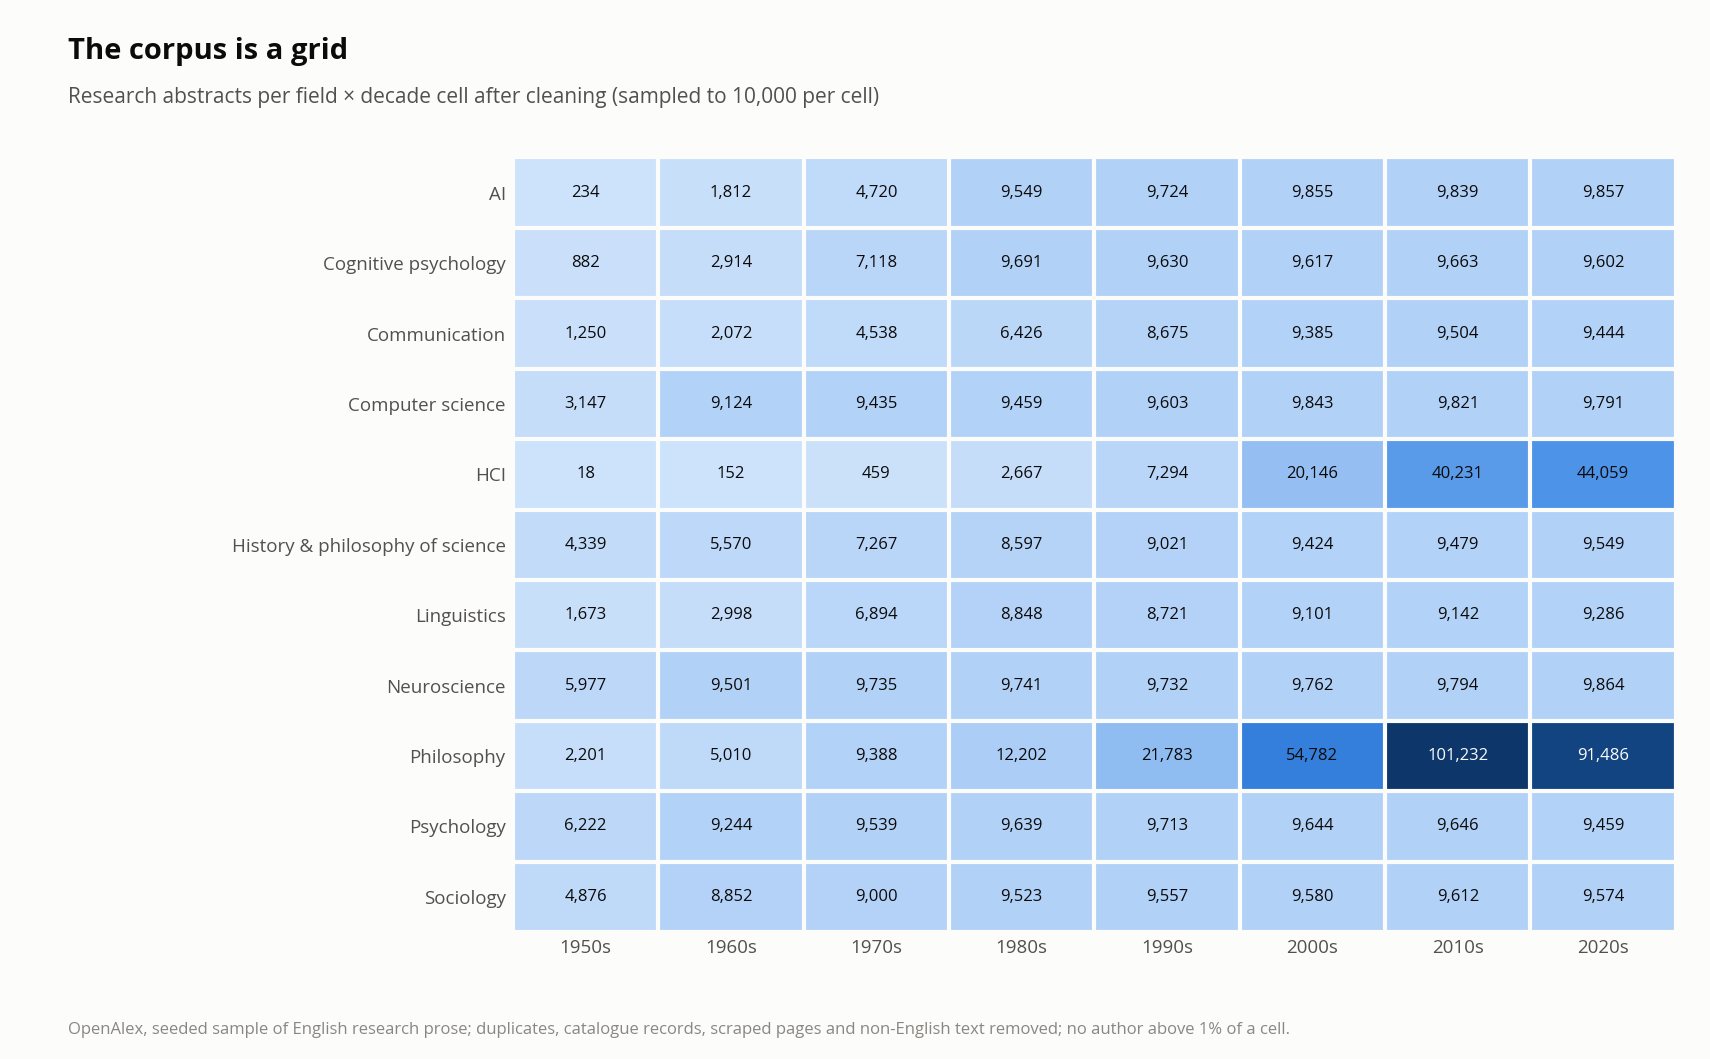
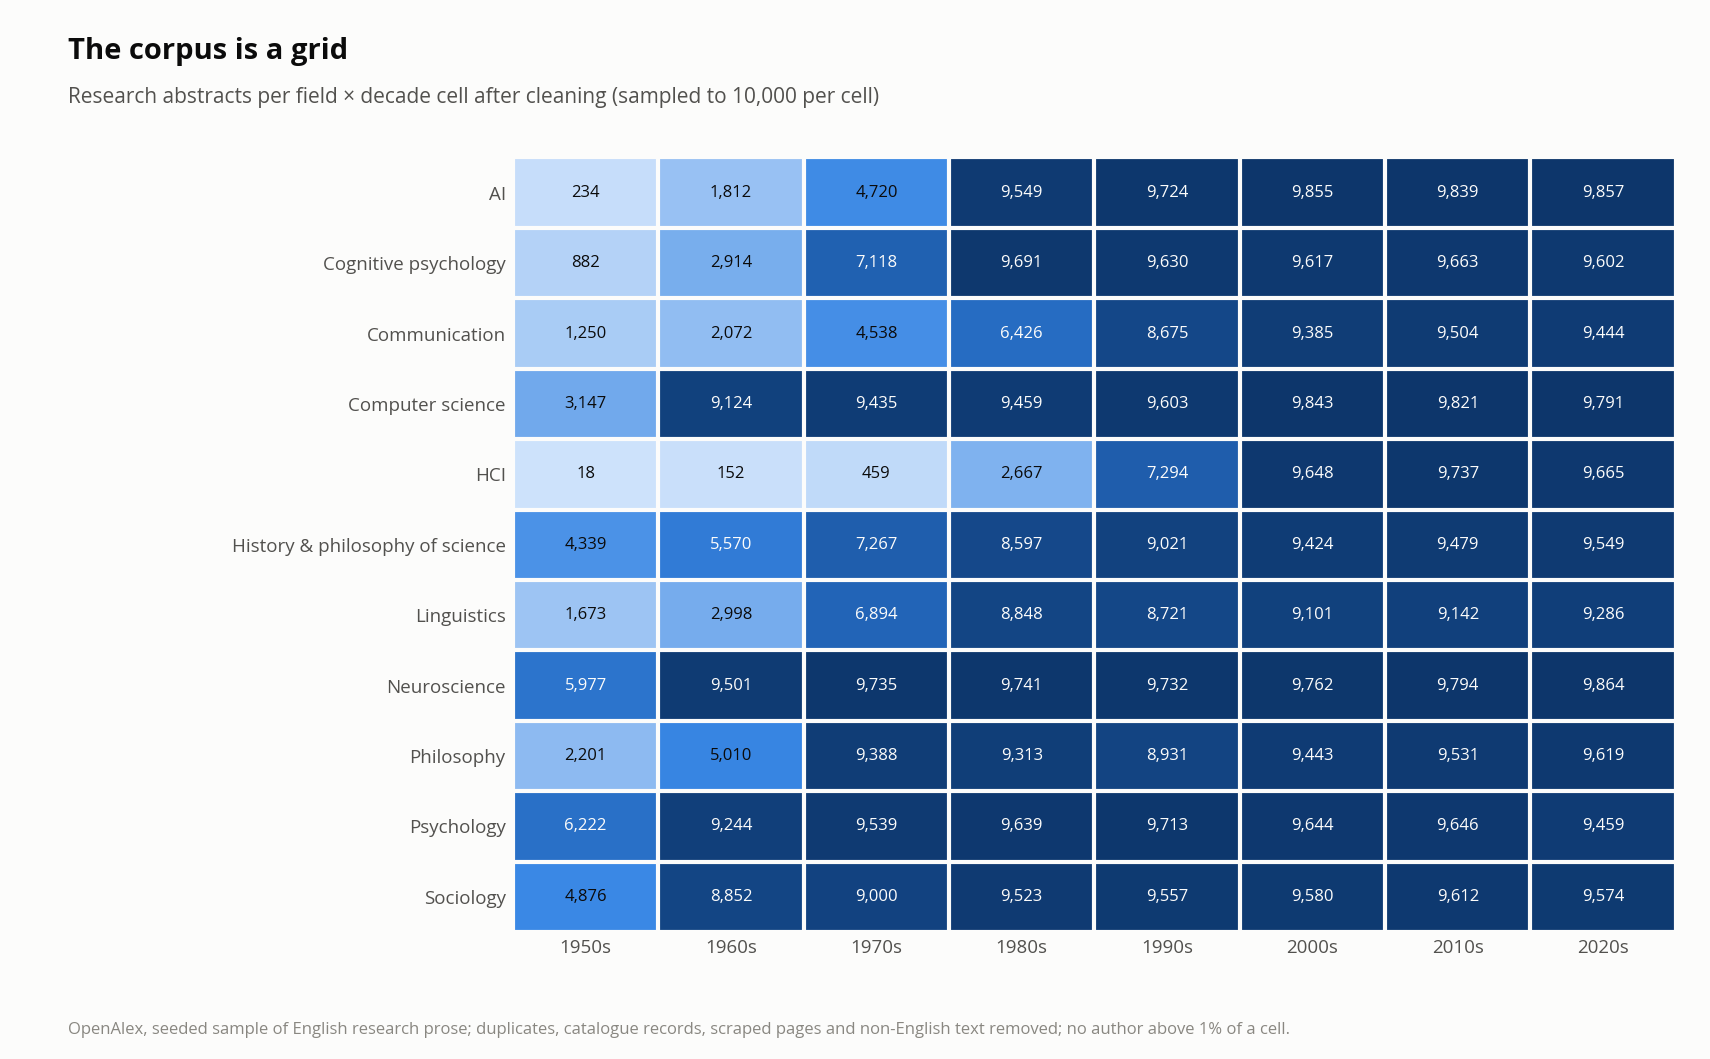
fix(audit): key cells by layer so full cells stop overwriting their samples
The audit named cells by file stem, so philosophy and HCI's full cells and
their main-grid samples shared a key: the web grid showed the full counts
(up to 192,933 in a 10,000-abstract cell), the README figure averaged the two,
and the home page claimed 1.3M abstracts instead of 677,000. Cells now carry
their layer, every lookup uses it, and per-decade totals leave the full cells
out because each contains its sample. Every cell's own counts are unchanged.

diff --git a/src/interpretant/corpus/audit.py b/src/interpretant/corpus/audit.py
@@ -1,8 +1,10 @@
 """Corpus audit: per-cell volume, target-word frequency and books-manifest risks.
 
-A cell is one ``(source, decade)`` processed text file. Drift between two decades is
-reliable only when a word occurs often enough in both: a vector trained on a handful of
-occurrences stays close to its initialisation, and its nearest neighbours are noise.
+A cell is one ``(layer, source, decade)`` processed text file: the same field and decade can
+exist in two layers (a main-grid sample and its full cell), so the layer is part of the key.
+Drift between two decades is reliable only when a word occurs often enough in both: a vector
+trained on a handful of occurrences stays close to its initialisation, and its nearest
+neighbours are noise.
 """
 
 from __future__ import annotations
@@ -15,6 +17,7 @@ from pathlib import Path
 
 from interpretant.corpus.books import BooksSource
 
+FULL_LAYER = "openalex_full"
 _CELL_FILENAME = re.compile(r"^(?P<source>[a-z0-9]+)_(?P<decade>\d{4})\.txt$")
 # "Zimmern translation", "English translation (Baskin, 1959)"; not "inscription, translation".
 _TRANSLATION_NOTE = re.compile(r"\w+ translation\b", re.IGNORECASE)
@@ -22,8 +25,9 @@ _TRANSLATION_NOTE = re.compile(r"\w+ translation\b", re.IGNORECASE)
 
 @dataclass
 class CellStats:
-    """Volume and target-word counts for one (source, decade) cell."""
+    """Volume and target-word counts for one (layer, source, decade) cell."""
 
+    layer: str
     source: str
     decade: int
     documents: int = 0
@@ -63,9 +67,9 @@ def load_target_words(path: Path) -> list[str]:
     return words
 
 
-def count_cell(path: Path, source: str, decade: int, targets: set[str]) -> CellStats:
+def count_cell(path: Path, layer: str, source: str, decade: int, targets: set[str]) -> CellStats:
     """Stream a processed text file (one document per line) and count its contents."""
-    stats = CellStats(source=source, decade=decade)
+    stats = CellStats(layer=layer, source=source, decade=decade)
     with path.open(encoding="utf-8", errors="replace") as handle:
         for line in handle:
             tokens = line.split()
@@ -78,13 +82,14 @@ def count_cell(path: Path, source: str, decade: int, targets: set[str]) -> CellS
 
 
 def scan_processed(processed_dir: Path, targets: set[str]) -> list[CellStats]:
-    """Count every ``<source>/texts/<source>_<decade>.txt`` file under ``processed_dir``."""
+    """Count every ``<layer>/texts/<source>_<decade>.txt`` file under ``processed_dir``."""
     cells: list[CellStats] = []
     for path in sorted(processed_dir.glob("*/texts/*.txt")):
         match = _CELL_FILENAME.match(path.name)
         if match is None:
             continue
-        cells.append(count_cell(path, match["source"], int(match["decade"]), targets))
+        layer = path.parent.parent.name
+        cells.append(count_cell(path, layer, match["source"], int(match["decade"]), targets))
     return cells
 
 
@@ -92,7 +97,9 @@ def merge_by_decade(cells: Iterable[CellStats]) -> dict[int, CellStats]:
     """Sum cells across sources, giving one merged cell per decade."""
     merged: dict[int, CellStats] = {}
     for cell in cells:
-        total = merged.setdefault(cell.decade, CellStats(source="merged", decade=cell.decade))
+        total = merged.setdefault(
+            cell.decade, CellStats(layer="merged", source="merged", decade=cell.decade)
+        )
         total.documents += cell.documents
         total.tokens += cell.tokens
         total.target_counts.update(cell.target_counts)
@@ -223,7 +230,8 @@ def audit_corpus(
 ) -> CorpusAudit:
     """Count every cell under ``processed_dir`` and check the books manifest."""
     cells = scan_processed(processed_dir, set(targets))
-    merged = merge_by_decade(cells)
+    # A full cell contains its main-grid sample, so counting both would count it twice.
+    merged = merge_by_decade(cell for cell in cells if cell.layer != FULL_LAYER)
     present, missing = books.validate()
     book_words = [
         (

diff --git a/tests/test_audit.py b/tests/test_audit.py
@@ -19,8 +19,10 @@ from interpretant.corpus.books import BooksSource
 TARGETS = {"network", "affordance"}
 
 
-def _write_cell(processed_dir: Path, source: str, decade: int, lines: list[str]) -> None:
-    texts_dir = processed_dir / source / "texts"
+def _write_cell(
+    processed_dir: Path, source: str, decade: int, lines: list[str], layer: str = ""
+) -> None:
+    texts_dir = processed_dir / (layer or source) / "texts"
     texts_dir.mkdir(parents=True, exist_ok=True)
     (texts_dir / f"{source}_{decade}.txt").write_text("\n".join(lines), encoding="utf-8")
 
@@ -37,7 +39,7 @@ def test_scan_processed_counts_documents_tokens_and_targets(tmp_path: Path) -> N
 
     [cell] = scan_processed(tmp_path, TARGETS)
 
-    assert (cell.source, cell.decade) == ("acl", 1990)
+    assert (cell.layer, cell.source, cell.decade) == ("acl", "acl", 1990)
     assert cell.documents == 2
     assert cell.tokens == 6
     assert cell.target_counts["network"] == 2
@@ -145,6 +147,7 @@ def test_audit_corpus_counts_cells_and_reports_json(tmp_path: Path) -> None:
     assert audit.merged[1990].target_counts["network"] == 2
     assert report["cells"] == [
         {
+            "layer": "hci",
             "source": "hci",
             "decade": 1990,
             "documents": 1,
@@ -152,6 +155,7 @@ def test_audit_corpus_counts_cells_and_reports_json(tmp_path: Path) -> None:
             "target_counts": {"network": 2},
         },
         {
+            "layer": "hci",
             "source": "hci",
             "decade": 2000,
             "documents": 1,
@@ -160,3 +164,16 @@ def test_audit_corpus_counts_cells_and_reports_json(tmp_path: Path) -> None:
         },
     ]
     assert report["missing_books"] == []
+
+
+def test_audit_keeps_a_sample_and_its_full_cell_apart_and_counts_the_decade_once(
+    tmp_path: Path,
+) -> None:
+    _write_cell(tmp_path, "hci", 2010, ["network"] * 2, layer="openalex")
+    _write_cell(tmp_path, "hci", 2010, ["network"] * 7, layer="openalex_full")
+
+    audit = audit_corpus(tmp_path, ["network"], BooksSource(tmp_path / "no_books"), 1)
+
+    documents = {(cell.layer, cell.source): cell.documents for cell in audit.cells}
+    assert documents == {("openalex", "hci"): 2, ("openalex_full", "hci"): 7}
+    assert audit.merged[2010].documents == 2

diff --git a/src/interpretant/__main__.py b/src/interpretant/__main__.py
@@ -598,20 +598,22 @@ def corpus_audit(
     audit = audit_corpus(
         processed_dir, load_target_words(words_file), BooksSource(books_dir), min_occurrences
     )
-    sources = sorted({cell.source for cell in audit.cells})
-    tokens_by_cell = {(cell.source, cell.decade): cell.tokens for cell in audit.cells}
+    columns = sorted({(cell.layer, cell.source) for cell in audit.cells})
+    tokens_by_cell = {(cell.layer, cell.source, cell.decade): cell.tokens for cell in audit.cells}
 
     volume_table = Table(title="Tokens per cell (millions)", show_lines=False)
     volume_table.add_column("Decade", style="cyan")
-    for source in sources:
-        volume_table.add_column(source, justify="right")
+    for layer, source in columns:
+        volume_table.add_column(
+            f"{source} (full)" if layer == "openalex_full" else source, justify="right"
+        )
     volume_table.add_column("merged", justify="right", style="bold")
     for decade, total in audit.merged.items():
         cells_row = [
-            f"{tokens_by_cell[(source, decade)] / 1e6:.2f}"
-            if (source, decade) in tokens_by_cell
+            f"{tokens_by_cell[(layer, source, decade)] / 1e6:.2f}"
+            if (layer, source, decade) in tokens_by_cell
             else "—"
-            for source in sources
+            for layer, source in columns
         ]
         volume_table.add_row(str(decade), *cells_row, f"{total.tokens / 1e6:.2f}")
     console.print(volume_table)

diff --git a/src/interpretant/visualization/figures.py b/src/interpretant/visualization/figures.py
@@ -389,13 +389,14 @@ def readme_figures(model_dir: Path, drift_dir: Path, audit_path: Path) -> dict[s
         footnote="Bars: mean over five resampled runs; points: the runs. Corrected design (200,000 training tokens, shared abstracts removed, 1,000 held-out abstracts). AI's and computer science's models are the two that did not gain.",  # noqa: E501
     )
     report = json.loads(audit_path.read_text(encoding="utf-8"))
-    cells = pd.DataFrame(report["cells"])[["source", "decade", "documents"]]
+    audited = pd.DataFrame(report["cells"])
+    cells = audited.loc[audited["layer"] == "openalex", ["source", "decade", "documents"]]
     fields = sorted(
-        {str(source) for source in cells["source"] if source != "books"},
+        {str(source) for source in cells["source"]},
         key=lambda field: field_label(field).lower(),
     )
     drawn["corpus_grid"] = corpus_grid(
-        cells[cells["source"] != "books"],
+        cells,
         title="The corpus is a grid",
         subtitle="Research abstracts per field × decade cell after cleaning (sampled to 10,000 per cell)",  # noqa: E501
         footnote="OpenAlex, seeded sample of English research prose; duplicates, catalogue records, scraped pages and non-English text removed; no author above 1% of a cell.",  # noqa: E501

diff --git a/src/interpretant/export.py b/src/interpretant/export.py
@@ -169,7 +169,7 @@ def export_web(  # noqa: PLR0913
     tiers = read_tiers(words_file)
     targets = load_target_words(words_file)
     audit = {
-        (cell["source"], cell["decade"]): cell
+        (cell["layer"], cell["source"], cell["decade"]): cell
         for cell in json.loads(audit_path.read_text(encoding="utf-8"))["cells"]
     }
     (output_dir / "words").mkdir(parents=True, exist_ok=True)
@@ -182,7 +182,7 @@ def export_web(  # noqa: PLR0913
             index = NeighbourIndex.build(KeyedVectors.load(str(cell.path)))
             tokens = sum(index.counts.values())
             if method == "twec":
-                audited = audit.get((cell.name, cell.decade), {})
+                audited = audit.get((cell.layer, cell.name, cell.decade), {})
                 cells.append(
                     {
                         "layer": cell.layer,
